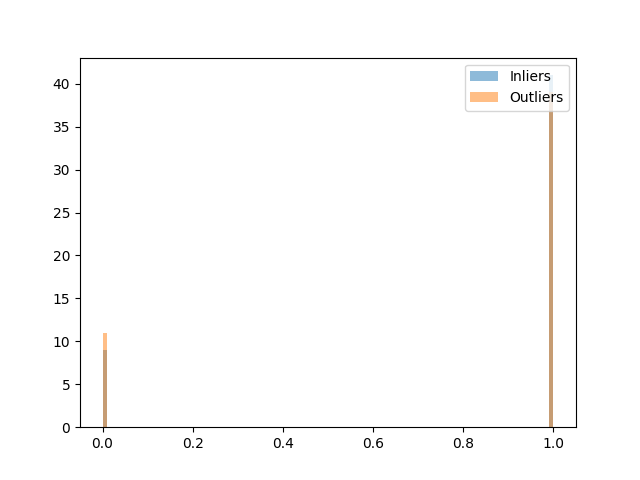
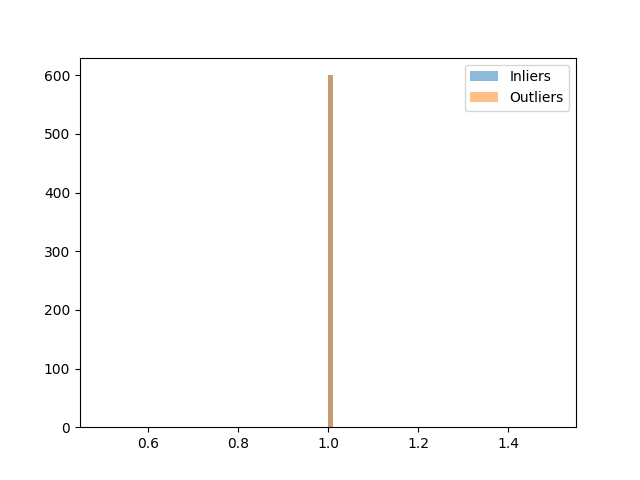
Long run with dreyeve

diff --git a/log/dreyeve/debug/configuration.py b/log/dreyeve/debug/configuration.py
@@ -1,0 +1,168 @@
+from pathlib import Path
+import datetime
+class Configuration(object):
+
+    dataset = 'dreyeve' # will affect which dataset specific settings are used
+
+    # Model hyper parameters
+    r_alpha = 0.2
+
+    # Log settings
+    experiment_name = 'debug'
+    #time_stamp = datetime.datetime.now().strftime("%y_%m_%d_kl%H_%M")
+
+    # Test settings
+    load_epoch = 90
+    test_batch_size = 64
+    test_batch_verbose = False
+
+    # Dataset specific settings below
+    if dataset == 'mnist':
+
+        image_height = 28
+        image_width = 28
+        channels = 1
+        batch_size = 128
+        hardcoded_architecture = 'ALOCC_mnist'
+        n_epochs = 10
+        n_test = 5000
+        n_test_in = 2500
+        num_checkpoints = 10
+        n_train = 5000
+
+    if dataset == "dreyeve":
+        # Autoencoder architecture
+        hardcoded_architecture = None
+        ae_n_conv_modules = 6 # number of conv. modules
+        ae_n_conv_layers_per_module = 1 # number of conv. layers in each module (between each pool layer/dim reduction)
+        ae_n_dense_layers = 0 # number of dense layers in
+        ae_z_dim = 256
+        ae_n_dense_units = ae_z_dim
+        ae_filter_size = 4
+        ae_stride = 1
+        ae_max_pool = False
+        ae_pool_size = 2
+        ae_first_layer_channels = 16
+        ae_channels = [16 * 2**i for i in range(ae_n_conv_modules)]
+        ae_use_batch_norm = True
+        ae_use_dropout = False
+        ae_dropout_rate = 0.1
+
+        # Discriminator architecture
+        d_n_conv_modules = 6 # number of conv. modules
+        d_n_conv_layers_per_module = 1 # number of conv. layers in each module (between each pool layer/dim reduction)
+        d_n_dense_layers = 1 # number of dense layers in
+        d_z_dim = 256
+        d_n_dense_units = 1
+        d_filter_size = 4
+        d_stride = 1
+        d_max_pool = False
+        d_pool_size = 2
+        d_channels_first_layer = 16
+        d_channels = [16 * 2**i for i in range(d_n_conv_modules)]
+        d_use_batch_norm = True
+        d_use_dropout = False
+        d_dropout_rate = 0.1
+
+        # Data format
+        image_height = 256
+        image_width = 256
+        channels = 3
+
+        # Train settings
+        n_epochs = 100
+        n_train = 6000
+        n_val = 50
+        n_test = 1200
+        n_test_in = 600
+        out_frac = (n_test-n_test_in)/n_test
+        batch_size = 64
+        num_checkpoints = 10
+
+        # Data sources
+        img_folder =   "../weather_detection_data/dreyeve/sunny_highway_countryside_morning_evening_vs_rainy_highway_countryside_morning_evening/"
+        train_folder =   "../weather_detection_data/dreyeve/sunny_highway_countryside_morning_evening_vs_rainy_highway_countryside_morning_evening/train/"
+        val_folder =   "../weather_detection_data/dreyeve/sunny_highway_countryside_morning_evening_vs_rainy_highway_countryside_morning_evening/val/"
+        test_folder = "../weather_detection_data/dreyeve/sunny_highway_countryside_morning_evening_vs_rainy_highway_countryside_morning_evening/test/"
+        test_in_folder =  test_folder + "in/"
+        test_out_folder =  test_folder + "out/"
+    
+    elif dataset == "prosivic":
+        hardcoded_architecture = None
+        # Autoencoder architecture
+        ae_n_conv_modules =  5 # number of conv. modules
+        ae_n_conv_layers_per_module = 1 # number of conv. layers in each module (between each pool layer/dim reduction)
+        ae_n_dense_layers = 0 # number of dense layers in
+        ae_z_dim = 256
+        ae_n_dense_units = ae_z_dim
+        ae_filter_size = 4
+        ae_stride = 1
+        ae_max_pool = False
+        ae_pool_size = 2
+        ae_first_layer_channels = 16
+        ae_channels = [16 * 2**i for i in range(ae_n_conv_modules)] # TODO: replace number with ae_first_layer_channels
+        ae_use_batch_norm = True
+        ae_use_dropout = False
+        ae_dropout_rate = 0.1
+
+        # Discriminator architecture
+        d_n_conv_modules =  4 # number of conv. modules
+        d_n_conv_layers_per_module = 1 # number of conv. layers in each module (between each pool layer/dim reduction)
+        d_n_dense_layers = 1 # number of dense layers in
+        d_z_dim = 256
+        d_n_dense_units = 1
+        d_filter_size = 4
+        d_stride = 1
+        d_max_pool = False
+        d_pool_size = 2
+        d_channels_first_layer = 16
+        d_channels = [8 * 2**i for i in range(d_n_conv_modules)] # TODO: replace number with d_channels_first_layer
+        d_use_batch_norm = True
+        d_use_dropout = False
+        d_dropout_rate = 0.1
+
+        # Train settings
+        n_epochs = 100
+        n_train = 100
+        n_val = 50
+        n_test = 1000
+        n_test_in = 500
+        out_frac = (n_test-n_test_in)/n_test
+        batch_size = 64
+        num_checkpoints  = 10
+
+        # Data format
+        image_height = 256
+        image_width = 256
+        channels = 3
+        batch_size = 64
+
+        # Data sources
+        img_folder =   "../weather_detection_data/prosivic/"
+        train_folder = "../weather_detection_data/prosivic/train/"
+        val_folder =   "../weather_detection_data/prosivic/val/"
+        test_folder = "../weather_detection_data/prosivic/test/"
+        test_in_folder =  test_folder + "in/"
+        test_out_folder =  test_folder + "out/foggy/"
+
+
+    elif dataset == "bdd100k":
+        img_folder = Path("/data/bdd100k/images/train_and_val_256by256")
+        norm_file = "/data/bdd100k/namelists/clear_or_partly_cloudy_or_overcast_and_highway_and_daytime.txt"
+        norm_filenames = loadbdd100k.get_namelist_from_file(norm_file)
+        out_file = "/data/bdd100k/namelists/rainy_or_snowy_or_foggy_and_highway_and_daytime_or_dawndusk_or_night.txt"
+        out_filenames = loadbdd100k.get_namelist_from_file(out_file)
+        norm_spec = [["weather", ["clear","partly cloudy", "overcast"]],["scene", "highway"],["timeofday", "daytime"]]
+        out_spec = [["weather", ["rainy", "snowy", "foggy"]],["scene", "highway"],["timeofday",["daytime","dawn/dusk","night"]]]
+        save_name_lists=False
+        labels_file = None
+        get_norm_and_out_sets = False
+        shuffle=False
+        architecture = "b1"
+    
+
+    # generated config settings
+    log_dir = './log/'+dataset+'/'+experiment_name+'/'
+    model_dir = log_dir+'models/'
+    train_dir = log_dir+'train/'
+    test_dir = log_dir+'test/'

diff --git a/test.py b/test.py
@@ -28,6 +28,8 @@ if __name__ == '__main__':
     out_name = args.out_name
     load_epoch = args.load_epoch
     model_dir ='log/'+dataset+'/'+exp_name+'/models/'
+    test_dir ='log/'+dataset+'/'+exp_name+'/test/'
+
     if args.out_name is None:
         outlier_dir = cfg.test_out_folder
     else:
@@ -43,6 +45,10 @@ if __name__ == '__main__':
     n_batches = len(data)//batch_size
     scores = np.array([])
     # recon_errors = np.array([])
+
+    # NOTE: below, scores and true labels are inverted so that 0 <- 1, and 1 <- 0, to have 1 for the positive class, which is outliers
+#    scores = 1-scores
+#    model.test_labels = 1-model.test_labels
 
     for batch_idx in range(n_batches):
         batch_data = data[batch_idx * batch_size:(batch_idx + 1) * batch_size]
@@ -68,9 +74,9 @@ if __name__ == '__main__':
     scores = np.append(scores, model.adversarial_model.predict(data[n_batches*batch_size:])[1])
 
     # Assert export dir exists
-    if not os.path.exists(model.test_dir):
-        os.makedirs(model.test_dir)
-        print("Created directory %s" % model.test_dir)
+    if not os.path.exists(test_dir):
+        os.makedirs(test_dir)
+        print("Created directory %s" % test_dir)
 
     # Print metrics
     fpr, tpr, _ = roc_curve(model.test_labels, -scores, pos_label = 0)
@@ -91,29 +97,35 @@ if __name__ == '__main__':
     inlier_idx = np.where(model.test_labels==1)[0]
     outlier_idx = np.where(model.test_labels==0)[0]
 
-    # Histogram scores
+    # Classwise scores
     inlier_scores = scores[inlier_idx]
     outlier_scores = scores[outlier_idx]
+
+    # Sort classes to obtain most normal and anomalous
+    in_perm = np.argsort(inlier_scores)
+    out_perm = np.argsort(outlier_scores)
 
     bins = 100
     plt.hist(inlier_scores, bins, alpha=0.5, label='Inliers')
     plt.hist(outlier_scores, bins, alpha=0.5, label='Outliers')
     plt.legend(loc='upper right')
     #plt.show()
-    plt.savefig(model.test_dir+'scores_hist.png')
+    print('Saving score histogram to ', test_dir+'scores_hist.png')
+    plt.savefig(test_dir+'scores_hist.png')
 
-    # Plot some inliers with reconstructions
-    sample_size = 32
-    inlier_sample = model.data[np.random.choice(inlier_idx, sample_size//2)]
-    outlier_sample = model.data[np.random.choice(outlier_idx, sample_size//2)]
-    sample = np.concatenate([inlier_sample, outlier_sample])
+    # Plot reconstructions
+    sample_size = 16
+    inlier_most_norm_sample = model.data[inlier_idx[in_perm[:sample_size]]]
+    inlier_most_out_sample = model.data[inlier_idx[in_perm[-sample_size:]]]
+    outlier_most_norm_sample = model.data[outlier_idx[out_perm[:sample_size]]]
+    outlier_most_out_sample = model.data[outlier_idx[out_perm[-sample_size:]]]
+    all_samples = [inlier_most_norm_sample, inlier_most_out_sample, outlier_most_norm_sample, outlier_most_out_sample]
+    sample_names = ['most_normal_inliers', 'most_anomalous_inliers', 'most_normal_outliers', 'most_anomalous_outliers']
 
-    # Plot some outliers with reconstructions
-    sample_predicts = model.adversarial_model.predict(sample)
-    sample_recon = sample_predicts[0]
-    sample_scores = sample_predicts[1]
-    montage_imgs =np.squeeze(np.concatenate([[img1, img2] for img1, img2 in zip(sample, sample_recon)]))
-    scipy.misc.imsave(model.test_dir+'test_reconstruction_samples.jpg', montage(montage_imgs))
-#    print("Sample scores:")
-#    print(sample_scores)
+    print('Saving reconstruction montages to ', test_dir)
+    for sample, name in zip(all_samples, sample_names):
+        sample_predicts = model.adversarial_model.predict(sample)
+        sample_recon = sample_predicts[0]
+        montage_imgs =np.squeeze(np.concatenate([[img1, img2] for img1, img2 in zip(sample, sample_recon)]))
+        scipy.misc.imsave(test_dir+name+'_reconstructions.jpg', montage(montage_imgs))
 

diff --git a/models.py b/models.py
@@ -131,12 +131,12 @@ class ALOCC_Model():
                 # self._X_val = [img_to_array(load_img(Cfg.prosivic_val_folder + filename)) for filename in os.listdir(Cfg.prosivic_val_folder)][:Cfg.prosivic_n_val] 
             else: #load test data     
                 n_test_out = cfg.n_test - cfg.n_test_in
-                _X_test_in = np.array([img_to_array(load_img(cfg.test_in_folder + filename)) for filename in os.listdir(cfg.test_in_folder)][:cfg.n_test_in])
-                _X_test_out = np.array([img_to_array(load_img(self.outlier_dir + filename)) for filename in os.listdir(self.outlier_dir)][:n_test_out])
-                _y_test_in  = np.ones((len(_X_test_in),),dtype=np.int32)
-                _y_test_out = np.zeros((len(_X_test_out),),dtype=np.int32)
-                self.data = np.concatenate([_X_test_in, _X_test_out]) / 255.0
-                self.test_labels = np.concatenate([_y_test_in, _y_test_out])
+                X_test_in = np.array([img_to_array(load_img(cfg.test_in_folder + filename)) for filename in os.listdir(cfg.test_in_folder)][:cfg.n_test_in])
+                X_test_out = np.array([img_to_array(load_img(self.outlier_dir + filename)) for filename in os.listdir(self.outlier_dir)][:n_test_out])
+                y_test_in  = np.ones((len(X_test_in),),dtype=np.int32)
+                y_test_out = np.zeros((len(X_test_out),),dtype=np.int32)
+                self.data = np.concatenate([X_test_in, X_test_out]) / 255.0
+                self.test_labels = np.concatenate([y_test_in, y_test_out])
         else:
           assert('Error in loading dataset')
 
@@ -147,7 +147,7 @@ class ALOCC_Model():
         if self.is_training:
             print("Training set size: ", len(self.data))
         else:
-            print("Test set:\n\tInliers: %d\n\tOutliers: %d"%(len(_X_test_in), len(_X_test_out)))
+            print("Test set:\n\tInliers: %d\n\tOutliers: %d"%(len(X_test_in), len(X_test_out)))
 
     def build_generator(self, input_shape):
         """Build the generator/R network.
@@ -392,7 +392,8 @@ class ALOCC_Model():
     def train(self, epochs, batch_size = 128, sample_interval=500):
         # Make log folder if not exist.
         os.makedirs(self.log_dir, exist_ok=True)
-
+        os.makedirs(self.train_dir,exist_ok=True)
+        print('Diagnostics will be save to ', self.log_dir)
         if self.dataset_name in ('mnist','prosivic','dreyeve'):
             # Get a batch of sample images with attention_label to export as montage.
             sample = self.data[0:batch_size]
@@ -401,6 +402,9 @@ class ALOCC_Model():
         sample_inputs = np.array(sample).astype(np.float32)
         os.makedirs(self.train_dir, exist_ok=True)
         scipy.misc.imsave('./{}/train_input_samples.jpg'.format(self.train_dir), montage(sample_inputs[:,:,:,0]))
+
+        # Save configuration used for the training procedure
+        self.save_config()
 
         counter = 1
         # Record generator/R network reconstruction training losses.
@@ -466,9 +470,6 @@ class ALOCC_Model():
         # Save the last version of the network
         self.save("final")
 
-        # Save configuration used for the training procedure
-        self.save_config()
-
         # Export the Generator/R network reconstruction losses as a plot.
         plt.title('Generator/R network reconstruction losses')
         plt.xlabel('Epoch')
@@ -515,7 +516,7 @@ class ALOCC_Model():
     def save_config(self): 
         """ Save current state of configuration.py for reproduction purposes
         """
-        copyfile('./configuration.py', cfg.log_dir+'configuration.py')
+        copyfile('./configuration.py', self.log_dir+'configuration.py')
         
 if __name__ == '__main__':
     parser=argparse.ArgumentParser()

diff --git a/utils.py b/utils.py
@@ -293,7 +293,7 @@ def kh_make_patches(arr, patch_shape=2, extraction_step=1):
 
 
 	
-def montage(images, saveto='montage.png'):
+def montage(images,saveto=None):
     """
       Draw all images as a montage separated by 1 pixel borders.
       Also saves the file to the destination specified by `saveto`.
@@ -327,6 +327,8 @@ def montage(images, saveto='montage.png'):
                 this_img = images[this_filter]
                 m[1 + i + i * img_h:1 + i + (i + 1) * img_h,
                   1 + j + j * img_w:1 + j + (j + 1) * img_w] = this_img
-    plt.imsave(arr=m, fname=saveto)
+    if saveto is not None:
+        plt.imsave(arr=m, fname=saveto)
+
     return m
 

diff --git a/configuration.py b/configuration.py
@@ -29,6 +29,7 @@ class Configuration(object):
         n_test_in = 2500
         num_checkpoints = 10
         n_train = 5000
+        test_out_folder = ''
 
     if dataset == "dreyeve":
         # Autoencoder architecture
@@ -71,7 +72,7 @@ class Configuration(object):
 
         # Train settings
         n_epochs = 100
-        n_train = 100
+        n_train = 6000
         n_val = 50
         n_test = 1200
         n_test_in = 600
